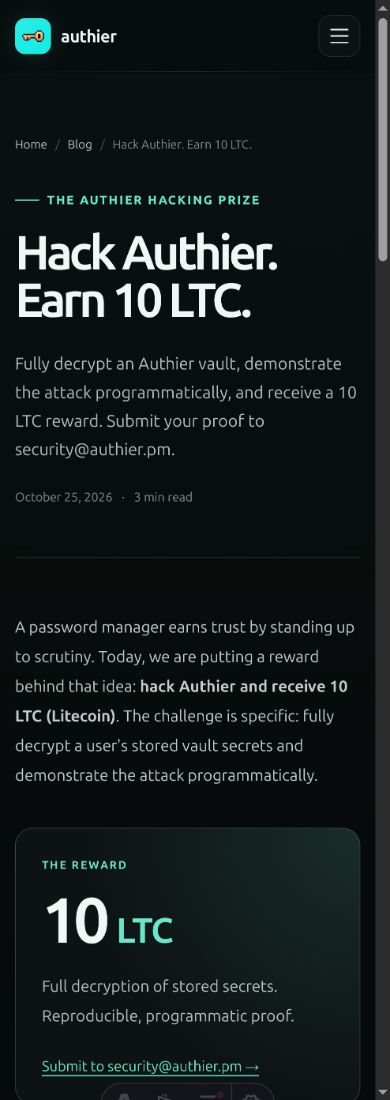
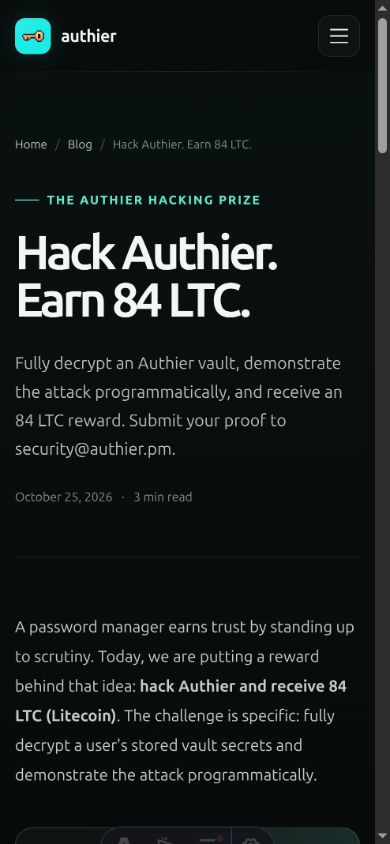
Raise Authier hacking prize to 84 LTC

diff --git a/landing-page/src/data/blog.ts b/landing-page/src/data/blog.ts
@@ -3,12 +3,12 @@ import type { ContentEntry } from './content'
 export type BlogPost = ContentEntry
 
 export const hackingPrizePost = {
-  title: 'Hack Authier. Earn 10 LTC.',
+  title: 'Hack Authier. Earn 84 LTC.',
   description:
-    'Fully decrypt an Authier vault, demonstrate the attack programmatically, and receive a 10 LTC reward. Submit your proof to security@authier.pm.',
+    'Fully decrypt an Authier vault, demonstrate the attack programmatically, and receive an 84 LTC reward. Submit your proof to security@authier.pm.',
   href: '/blog/hack-authier-10-ltc',
   publishedAt: '2026-10-25',
-  updatedAt: '2026-10-25',
+  updatedAt: '2026-11-11',
   readingTime: '3 min read',
   category: 'Security challenge'
 } as const satisfies BlogPost

diff --git a/SECURITY.md b/SECURITY.md
@@ -4,9 +4,9 @@ notify us. We welcome working with you to resolve the issue promptly. Thanks in 
 
 Send security reports to **security@authier.pm**.
 
-## 10 LTC hacking prize
+## 84 LTC hacking prize
 
-Authier offers a **10 LTC (Litecoin)** reward for a verified attack that fully decrypts a user's
+Authier offers an **84 LTC (Litecoin)** reward for a verified attack that fully decrypts a user's
 stored vault secrets. Submissions must include a reproducible, programmatic proof of concept;
 access to ciphertext or metadata alone does not qualify. Use accounts you control and synthetic
 secrets, and demonstrate the attack without supplying the user's master password or legitimate
@@ -15,7 +15,7 @@ decryption keys as inputs. The disclosure policy and scope below apply.
 Ideally, demonstrate the hack with a fresh Authier account created solely for the hack demo,
 populated with synthetic secrets.
 
-Your submission must include a Litecoin receiving address where we should send the 10 LTC reward
+Your submission must include a Litecoin receiving address where we should send the 84 LTC reward
 if your attack qualifies.
 
 Read the announcement and submission requirements at

diff --git a/web-extension/ui-preview/README.md b/web-extension/ui-preview/README.md
@@ -27,10 +27,10 @@ entire browser, and retries a lost server acknowledgement without a duplicate.
 The production pending-sync and upgrade notices are captured in
 `docs/screenshots/vaultPendingSync.png`.
 
-The `hacking-prize-blog` scenario embeds the production 10 LTC security challenge
+The `hacking-prize-blog` scenario embeds the production 84 LTC security challenge
 announcement. Start the Astro server on port 4321 alongside the preview, then
-open `/?scenario=hacking-prize-blog`. Check the reward, full-decryption criteria,
-programmatic proof requirements, the fresh demo account recommendation, the
+open `/?scenario=hacking-prize-blog`. Check the 84 LTC headline and reward card,
+full-decryption criteria, programmatic proof requirements, the fresh demo account recommendation, the
 required Litecoin receiving address, and submission links on desktop and mobile.
 Captures live in `docs/screenshots/hacking-prize-blog-desktop.jpg` and
 `docs/screenshots/hacking-prize-blog-mobile.jpg`.
